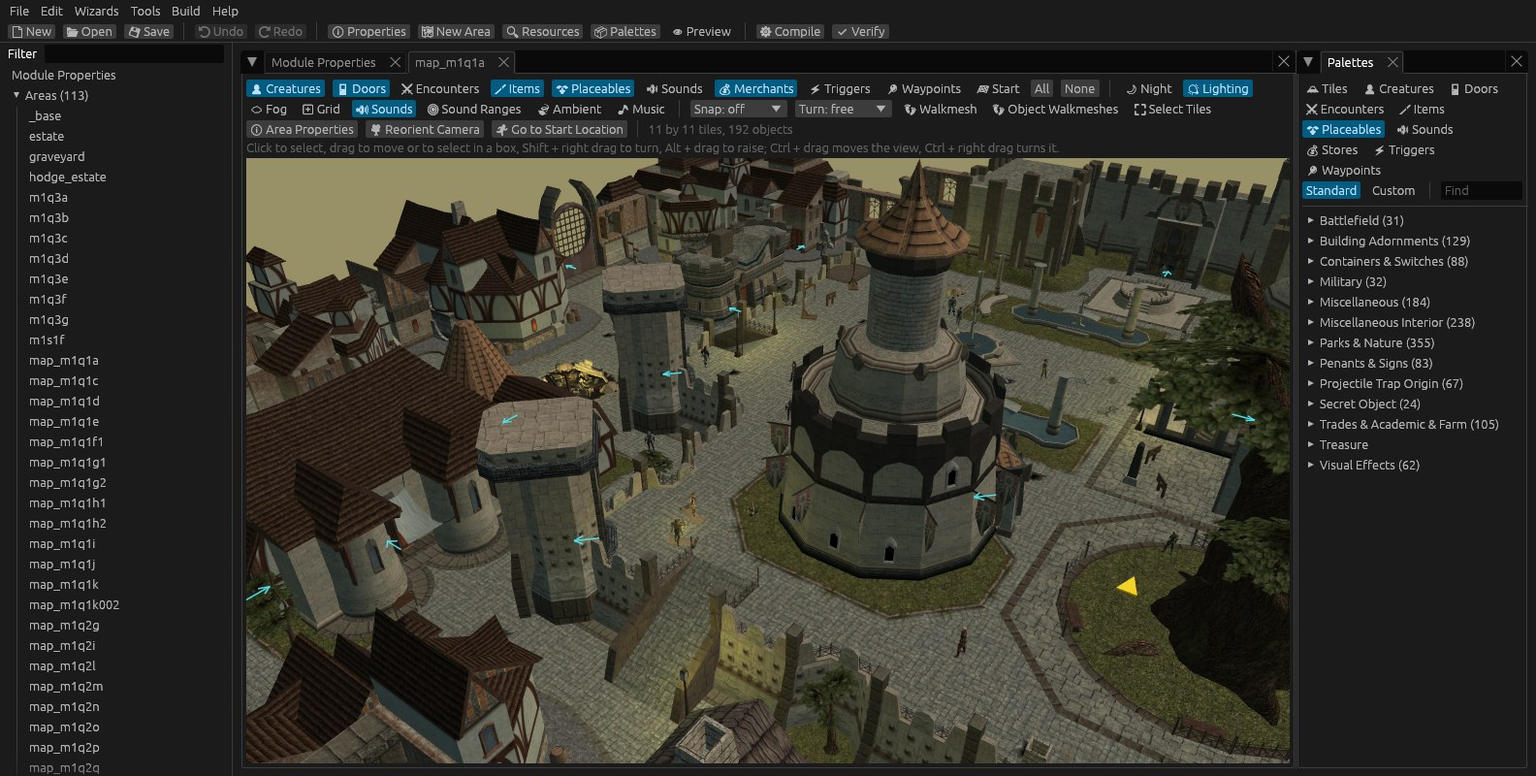
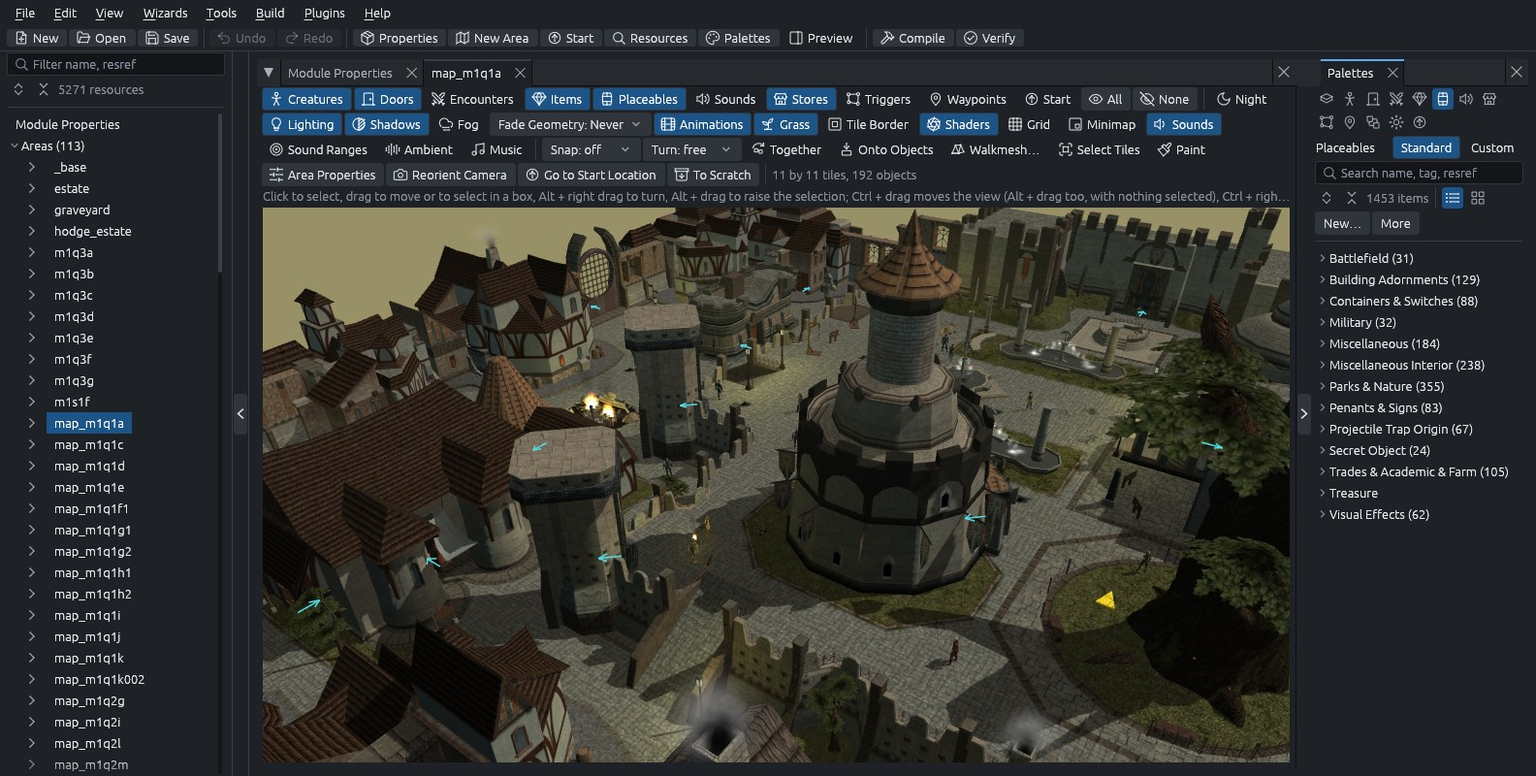
For 4.2.0: the Lucide notice reaches the packages, the README and manual pictures show the new look, the release's metainfo entry

diff --git a/packaging/third_party_licenses.py b/packaging/third_party_licenses.py
@@ -29,6 +29,9 @@ PROGRAMS = ["moonglow", "mg"]
 LICENSE_FILES = ("license", "licence", "copying", "notice", "unlicense", "copyright")
 # Folders with the licenses of what a crate bundles (fonts, ...).
 BUNDLED = ("fonts", "licenses", "licences")
+# And of Moonglow's own crates: mg-uikit's icons, drawn in the manner of
+# Lucide (icons/LICENSE-lucide.txt).
+OWN_BUNDLED = BUNDLED + ("icons",)
 # Where a -sys crate keeps the C or C++ sources it builds (glslang-sys:
 # native/glslang, with its LICENSE.txt).
 NATIVE = "native"
@@ -99,13 +102,18 @@ def main():
     out.write("Moonglow Toolset is licensed under the GNU General Public License,\n"
               "version 3 (LICENSE). It includes Beamdog's NWScript compiler (GPL-3.0)\n"
               "with neverwinter.nim's C API over it (MIT, copyright the neverwinter.nim\n"
-              "authors, https://github.com/niv/neverwinter.nim), Ubuntu Bold (Ubuntu\n"
-              "Font Licence 1.0, copyright Canonical Ltd) for its labels, Luau (MIT,\n"
-              "copyright Roblox Corporation and Lua.org, PUC-Rio) for plugins, and\n"
-              "glslang (BSD-3-Clause and others, copyright The Khronos Group and\n"
-              "others: its LICENSE.txt, with glslang-sys) for the game's shaders, and\n"
-              "Zstandard (BSD-3-Clause, copyright Meta Platforms, Inc. and affiliates:\n"
-              "its LICENSE, with zstd-sys) for NWSync's data.\n")
+              "authors, https://github.com/niv/neverwinter.nim), the Ubuntu font\n"
+              "(Ubuntu Font Licence 1.0, copyright Canonical Ltd: Ubuntu Light, with\n"
+              "epaint_default_fonts, for its text and Ubuntu Bold, with mg-uikit, for\n"
+              "its headings), Luau (MIT, copyright Roblox Corporation and Lua.org,\n"
+              "PUC-Rio) for plugins, and glslang (BSD-3-Clause and others, copyright\n"
+              "The Khronos Group and others: its LICENSE.txt, with glslang-sys) for\n"
+              "the game's shaders, and Zstandard (BSD-3-Clause, copyright Meta\n"
+              "Platforms, Inc. and affiliates: its LICENSE, with zstd-sys) for\n"
+              "NWSync's data. Its icons were drawn in the manner of Lucide\n"
+              "(https://lucide.dev, ISC License, copyright Lucide Contributors and\n"
+              "Cole Bemis): where an icon's shape matches one of Lucide's, Lucide's\n"
+              "license applies to it (mg-uikit's icons/LICENSE-lucide.txt).\n")
     dxc = []
     if args.dxc:
         d = pathlib.Path(args.dxc)
@@ -113,7 +121,7 @@ def main():
         dxc = [f for f in sorted(d.iterdir()) if f.is_file() and f.name != "VERSION.txt"]
         if not dxc:
             sys.exit(f"no license texts in {d}")
-        out.write(f"Beside it lies Microsoft's DirectX Shader Compiler {version}\n"
+        out.write(f"Beside the programs lies Microsoft's DirectX Shader Compiler {version}\n"
                   "(dxcompiler.dll, https://github.com/microsoft/DirectXShaderCompiler),\n"
                   "which Direct3D 12 compiles shaders with: the University of\n"
                   "Illinois/NCSA Open Source License (LLVM's), Microsoft's own code\n"
@@ -143,11 +151,11 @@ def main():
             except OSError:
                 continue
             texts.setdefault(text, []).append(f"{p['name']} {p['version']} ({f.name})")
-    # What Moonglow's own crates bundle (fonts, ...).
+    # What Moonglow's own crates bundle (fonts, the icons' license, ...).
     for i in sorted(seen & workspace, key=lambda i: packages[i]["name"]):
         p = packages[i]
         root = pathlib.Path(p["manifest_path"]).parent
-        for b in BUNDLED:
+        for b in OWN_BUNDLED:
             d = root / b
             if not d.is_dir():
                 continue

diff --git a/crates/mg-uikit/tests/kit/licenses.rs b/crates/mg-uikit/tests/kit/licenses.rs
@@ -1,0 +1,56 @@
+//! What the crate bundles reaches the packages' `THIRD-PARTY-LICENSES.txt`:
+//! `packaging/third_party_licenses.py`, which every package runs, is run
+//! here, and its notices of the icons (Lucide's ISC license) and the fonts
+//! (the Ubuntu Font Licence, for Ubuntu Light and Ubuntu Bold) are read
+//! back.
+
+/// The file the script writes, as notice blocks: each block's users (one a
+/// line) and its text.
+fn notices(text: &str) -> Vec<(Vec<String>, String)> {
+    let rule = format!("\n{}\n", "=".repeat(78));
+    let line = format!("{}\n\n", "-".repeat(78));
+    text.split(&rule)
+        .skip(1)
+        .filter_map(|block| {
+            let (users, text) = block.split_once(&line)?;
+            Some((users.lines().map(str::to_string).collect(), text.trim().to_string()))
+        })
+        .collect()
+}
+
+#[test]
+#[cfg(unix)]
+fn the_packages_notices_name_the_icons_and_the_fonts() {
+    let dir = mg_testkit::scratch_dir("uikit-licenses");
+    let out = dir.join("THIRD-PARTY-LICENSES.txt");
+    let root = std::path::Path::new(env!("CARGO_MANIFEST_DIR")).join("../..");
+    let run = std::process::Command::new("python3")
+        .arg("packaging/third_party_licenses.py")
+        .arg("--output")
+        .arg(&out)
+        .current_dir(&root)
+        .output()
+        .expect("python3 runs");
+    assert!(run.status.success(), "{}", String::from_utf8_lossy(&run.stderr));
+    let text = std::fs::read_to_string(&out).unwrap();
+    let head = text.split("It is built from these crates").next().unwrap().replace('\n', " ");
+    assert!(head.contains("in the manner of Lucide"), "{head}");
+    assert!(head.contains("Ubuntu Light") && head.contains("Ubuntu Bold"), "{head}");
+
+    let notices = notices(&text);
+    let lucide = include_str!("../../icons/LICENSE-lucide.txt").trim();
+    assert!(
+        notices.iter().any(|(users, t)| t == lucide
+            && users.contains(&"mg-uikit (icons/LICENSE-lucide.txt)".to_string())),
+        "no Lucide notice from mg-uikit's icons"
+    );
+    let ufl = include_str!("../../fonts/UFL.txt").trim();
+    let (users, _) =
+        notices.iter().find(|(_, t)| t == ufl).expect("the Ubuntu Font Licence's text");
+    // (Ubuntu Bold is the crate's; Ubuntu Light egui's, in its fonts.)
+    assert!(users.contains(&"mg-uikit (fonts/UFL.txt)".to_string()), "{users:?}");
+    assert!(
+        users.iter().any(|u| u.starts_with("epaint_default_fonts ") && u.ends_with(" (UFL.txt)")),
+        "{users:?}"
+    );
+}

diff --git a/crates/mg-ui/tests/screens.rs b/crates/mg-ui/tests/screens.rs
@@ -1142,7 +1142,8 @@ fn table_read_only_and_column_widths() {
 }
 
 /// A table with a description beside it: values by name, a cell that is
-/// none of its list, and a flags cell being ticked (the flags are the
+/// none of its list (in the rows above the flags' list, which opens over
+/// the last four), and a flags cell being ticked (the flags are the
 /// game's own `DAMAGE_TYPE_` constants, read from `nwscript`).
 #[test]
 #[ignore]
@@ -1158,11 +1159,11 @@ fn described_table() {
     std::fs::write(
         &file,
         "2DA V2.0\r\n\r\n  Label Level DamageType AOEShape Duration ClassRequired Cures\r\n\
-         0 Acid_Fog 6 0x0010 0 2 **** ****\r\n1 Aid 2 **** **** 3 **** ****\r\n\
-         2 Animate_Dead 3 **** **** 4 2 ****\r\n3 Barkskin 2 **** **** 4 **** ****\r\n\
+         0 Acid_Fog 6 0x0010 0 2 **** ****\r\n1 Aid 12 **** **** 9 **** ****\r\n\
+         2 Animate_Dead 3 **** **** 4 2 ****\r\n3 Barkskin 2 **** **** #N/A 99 ****\r\n\
          4 Bestow_Curse 3 **** **** 5 **** ****\r\n5 Blade_Barrier 6 0x0006 1 2 **** ****\r\n\
-         6 Bless 1 **** **** 3 **** ****\r\n7 Bless_Weapon 12 **** **** 9 **** ****\r\n\
-         8 Blindness_and_Deafness 2 **** **** #N/A 99 ****\r\n\
+         6 Bless 1 **** **** 3 **** ****\r\n7 Bless_Weapon 1 **** **** 4 **** ****\r\n\
+         8 Blindness_and_Deafness 2 **** **** 4 **** ****\r\n\
          9 Bulls_Strength 2 **** **** 4 **** ****\r\n",
     )
     .unwrap();
@@ -6737,12 +6738,17 @@ fn readme_screenshots() {
             Box::new(NoDialogs::default()),
         );
         app.set_render_state(rs.clone());
+        // (No area opens with the module: one behind the windows would
+        // show at their edges.)
+        app.settings.no_last_area = true;
         app.open_module(&chapter);
         // (The area's shot opens the palette beside it; the others are
         // windows alone.)
         app.open_palette = false;
         let mut h = Harness::builder()
-            .with_size(egui::vec2(1600.0, 960.0))
+            // (The README's pictures are cut from (8, 8) to (1592, 808),
+            // above the log, as JPEG at quality 88 or PNG of 256 colors.)
+            .with_size(egui::vec2(1600.0, 976.0))
             .renderer(egui_kittest::wgpu::WgpuTestRenderer::from_render_state(rs))
             .build_ui_state(|ui, app: &mut Moonglow| app.ui(ui), app);
         h.run_steps(3);

diff --git a/crates/mg-uikit/tests/kit/main.rs b/crates/mg-uikit/tests/kit/main.rs
@@ -1,9 +1,11 @@
 //! mg-uikit's tests that drive egui: the tokens against the mockups'
-//! tables, what `apply` does to a context, the icon widgets, and the kit
+//! tables, what `apply` does to a context, the icon widgets, the notices
+//! of the icons and fonts in the packages' licenses, and the kit
 //! sheet (every standard control under the theme; its pictures, run by
 //! hand: `cargo test -p mg-uikit --test kit -- --ignored`, write
 //! `target/test-output/uikit/`).
 
+mod licenses;
 mod sheet;
 mod theme;
 mod tokens;

diff --git a/docs/ui-redesign-proposal.md b/docs/ui-redesign-proposal.md
@@ -3,7 +3,7 @@ type: Proposal
 title: 'One look and one shell for the suite: the UI redesign'
 description: The approved redesign of Moonglow Toolset and Moonglow Viewer - the seven rules, every color token in dark and light, type and metrics, the shell and how it yields at small widths, the components, the icons, what the redesign does to each editor, the area view's handles (Fine Lines), the owner's rulings, the features it adds, what is decided but not drawn, the probable bugs found in today's app, and the milestones to build it (M1 the shared crate mg-uikit to M6 the viewer).
 tags: [proposal, ui, redesign, theme, tokens, shell, icons, gizmos, galleries, light-theme, viewer, mg-uikit]
-generated: { by: claude-code/claude-fable-5-2, at: 2026-11-11T23:05:33Z }
+generated: { by: claude-code/claude-opus-5-5, at: 2026-11-13T21:52:32Z }
 status: stable
 stale_after: 2027-03-01T00:00:00Z
 sources:
@@ -754,7 +754,7 @@ Can ship alone.
 
 **First half done 2026-11-11: the theme on today's layout.** The application applies `mg_uikit::apply` every frame in the choice of Options › General › Light theme (the setting, its stored name and its place kept; it changes on OK, as Interface size beside it does), so every window and test harness wears the tokens, type and 22 px rows and controls in both themes. What egui's style could not say is now said: `mg-uikit` gained a check box and a radio of its own (`Checkbox`, `RadioButton`, `ui.check_box`, `ui.radio_choice`, `ui.radio_button`: on in `accent-fill` with a white mark, off a bordered well, the same ids, keys and accessible names as egui's, egui's own where no theme is applied), chevrons for combo boxes and trees (`combo_icon`, `collapsing_icon`), the slider (`slider`), the 22 px text field (`text_field`), menu and list row styles (`menu_style`, `menu_bar_style`, `list_rows`: rows hovered in `accent-fill` and `hover-row`, a row as wide at rest as hovered), and a pass at the end of each frame that turns the focused field's border `accent` and gives tooltips `tooltip-bg`. The headings' text style is the body face (window titles and `ui.heading` are not bold; dialog titles are in the body size); `section_heading` stays the one bold. The dock is styled from the tokens (`mg-ui`'s `dock_look`: tab bars `bar` 28 px high, the tab in front `panel` with a 2 px line along its top, `accent` in the focused pane, 1 px `line` between tabs). Chrome colors written into `mg-ui` take tokens; the colors kept (3D view overlays, the game's look, data, tests) are listed with their reasons in `mg-ui/src/chrome_colors.rs`, whose test holds the list. The toolbars that cut their last buttons wrap. `mg nui render` and `mg nui layout` draw byte for byte as before. The sliders are egui's drawn in the theme (`mg_uikit::slider`: an `inset` rail, the filled part `accent-fill`, a thumb ringed in `text-2`; egui fills the rail and the resting thumb alike, so the thumb at rest is the rail's color). The drawn icons came in a third round (below).
 
-**Second round, 2026-11-11: rows, read-only forms, frames.** Rows are the mock's `--row-h`: every tree, list of rows and table (the module tree, the conversation, palette, journal and category trees, the Options' pages, every editor's and dialog's lists, the 2DA grid and its row numbers, the variables and other editable tables, the combo boxes' lists) lays its rows 22 px apart with no gap (a table of fields 23, below), their fills square and drawn on the row itself so that a selected row and its hovered neighbor meet with neither overlap nor seam. One mechanism does it: `mg_uikit::row_style` (no gap, no expansion and so no border, square corners, `hover-row`), given with `list_rows` (the rest of a `Ui`), `with_rows` (a scope, the gap under it kept) or `show_rows` (egui's `show_rows`, which reads the gap outside the rows). A table whose rows are fields (the variables, a creature's skills, the GFF view, a tileset's rules) leaves a 1 px line of the panel between its rows (`table_rows`, `metrics::TABLE_RULE`; the mock's `.table td` draws its border inside its 22 px, which would take a point off each field: here the line is added, 23 px a row): a text field in a row is its well, borderless, ringed in `accent` with the keys, and the wells ran together without it. Forms keep a 22 px control and the 4 px gap. A window opens as much taller as its lines grew: `tabs::FORMS_TALLER` (26 over 21) for one that is mostly a form, `tabs::ROWS_TALLER` (8%) for one that is mostly rows (its toolbars and the few form lines under its rows grew, its rows only a point each). A form shown only to be looked at is `mg_uikit::read_only`: no fill, a quiet border, `text-2`, nothing lit under the pointer, and the kit's check box, radio button and slider quiet too (`text-3`, never the accent). A field with a ground of its own takes a frame of its own (`mg_uikit::code_frame`: the script editor, no border with the keys or without). Menus keep their own rows: 22 px with 4 between (26 a row, the mock's `.menu-row` is 24 with none between), left for M3's menus. The manual's screenshots under `docs/images/` are not replaced now: they change again with the shell milestone (M3) and are replaced once then.
+**Second round, 2026-11-11: rows, read-only forms, frames.** Rows are the mock's `--row-h`: every tree, list of rows and table (the module tree, the conversation, palette, journal and category trees, the Options' pages, every editor's and dialog's lists, the 2DA grid and its row numbers, the variables and other editable tables, the combo boxes' lists) lays its rows 22 px apart with no gap (a table of fields 23, below), their fills square and drawn on the row itself so that a selected row and its hovered neighbor meet with neither overlap nor seam. One mechanism does it: `mg_uikit::row_style` (no gap, no expansion and so no border, square corners, `hover-row`), given with `list_rows` (the rest of a `Ui`), `with_rows` (a scope, the gap under it kept) or `show_rows` (egui's `show_rows`, which reads the gap outside the rows). A table whose rows are fields (the variables, a creature's skills, the GFF view, a tileset's rules) leaves a 1 px line of the panel between its rows (`table_rows`, `metrics::TABLE_RULE`; the mock's `.table td` draws its border inside its 22 px, which would take a point off each field: here the line is added, 23 px a row): a text field in a row is its well, borderless, ringed in `accent` with the keys, and the wells ran together without it. Forms keep a 22 px control and the 4 px gap. A window opens as much taller as its lines grew: `tabs::FORMS_TALLER` (26 over 21) for one that is mostly a form, `tabs::ROWS_TALLER` (8%) for one that is mostly rows (its toolbars and the few form lines under its rows grew, its rows only a point each). A form shown only to be looked at is `mg_uikit::read_only`: no fill, a quiet border, `text-2`, nothing lit under the pointer, and the kit's check box, radio button and slider quiet too (`text-3`, never the accent). A field with a ground of its own takes a frame of its own (`mg_uikit::code_frame`: the script editor, no border with the keys or without). Menus keep their own rows: 22 px with 4 between (26 a row, the mock's `.menu-row` is 24 with none between), left for M3's menus. The manual's and the README's screenshots under `docs/images/` were left at first, as they change again with the shell milestone (M3); for release 4.2.0, which ships M2 without the shell, they were made again in the new look (2026-11-13, `screens.rs`'s `readme_screenshots` and `described_table`), and M3 replaces them once more.
 
 **Third round, 2026-11-11: the drawn icons.** No button, toggle, menu row or mark of the toolset carries an emoji or a symbol character any more: each draws one of the set's icons (`mg_uikit::Icon`), 16 px in 1.5 px strokes on the pixel grid, and is named by its words alone (`get_by_label("Save")`, a screen reader's "Save"), with its icon or without. The widget is `mg_uikit::IconButton` (the icon and the words, the icon alone as a 22 px `.btn-icon`, or the words alone; small, frameless, selected, a toggle's look, filled; disabled it fades whole), with `menu` (a menu's button, or in a menu a submenu row with a drawn chevron, egui's `⏵` glyph gone from every submenu), `submenu_button`, `menu_button`, `icon_label` (a warning's or a note's mark before its words), `name_group` (a row named as a group, so that its buttons are found within it: the main toolbar's "Toolbar", the area view's "Area toolbar", the palette's "Palette types") and `record_icons`/`icons_drawn` (which icon a frame drew where, for tests). A word button's icon sits 2 px into its padding with 6 px before the words (the mock's `.btn .ic`). `mg-ui`'s `icons.rs` holds the toolset's icons by meaning (`object(kind)` the kind icons, the same in the area view's filters and the palette's types; `editor::*` the editors' toolbars'), and `Tools` labels a toolbar as Options › General › Toolbar buttons says: the icon and the words, or with Icons only the icon alone, its words in its tip and its name; the editors' toolbars keep their words alone beside it. Converted: the main toolbar, the area view's filters, switches, tools and its three dropdowns' leading icons, the script, conversation, model and NUI toolbars, the palette's types, List and Gallery, Expand All and Collapse All, the tiles palette's brushes, Select Tiles and Exact Tile, the module tree's area arrows and claim marks (check, lock, pin), the journal's and the NUI layers' arrows, a favorite's bookmark (before its name in the list, at a picture's top right in the gallery), every search field's glass (drawn in the field) and clear button, the number fields' arrows, the remove, move and add buttons of forms, the equipment's worn-off warning, the window bar's Maximize and Restore (now drawn where a window's bar lies over the main toolbar too), the View menu's and plugin panels' ticks, the script editor's bookmarks in its line numbers and its live error's mark, the renderer and update notices. What stays text (signs in data and messages: `≠` for values that differ, `×` in sizes and counts, `↺90°` a turn's value) is listed with its reasons in `mg-ui/src/interface_glyphs.rs`, whose test reads every string and character literal of the application and holds the list exactly, and another that the app's fonts draw each: the proportional fonts have no `→` (it showed as a square), so the messages they draw write `->`: the 2DA editor's merge lines and their tip, Refine Tile's brush, the import window's missing references, the attach-hak window's placements (a tip) and the NUI Creator's bind cycles; the messages only the log shows, in its monospace font, which has the arrow, keep `→` (a verify finding's reference, an export's missing references, a terrain renamed in its tileset's palette), each listed with the font that draws it. The scan reads the sources of every crate whose strings the application can show (all of `crates/` but the two that are tests alone, and `apps/moonglow`), skipping test modules alone and reading byte strings too. The hak editor's header no longer runs past its window (the owner's finding on the mock and in the app): its path and its hint line are cut short with an ellipsis instead of widening the editor, and its buttons show their icons alone when their words do not fit the editor's width (`Tools::fitted`, section 6.1's first step), wrapping where even those do not; a test holds every button inside the window at 640 and 480 px. The fonts are unchanged: the emoji and symbol fonts are egui's `default_fonts`, which text the user writes or reads (a conversation line, a talk-table string, a script comment) and egui's own widgets (the color picker's copy button) still need. The plugin API names no icons and is left as it is: a plugin's titles are text, emoji included. Known differences: the toolbars' buttons keep 4 px between icon and words, not the mock's 6, and even so the area view's toolbar takes a row more at some widths (its forty buttons a point or two wider each than with their glyphs), until M3 moves its switches into popovers.
 

diff --git a/docs/log.md b/docs/log.md
@@ -1,5 +1,8 @@
 # Update log
 
+## 2026-11-13
+* **Update**: Release 4.2.0 prepared (the version, its tag and its notes on GitHub are the release's own step). The README's four pictures and the manual's described 2DA table (`images/2da-table-described.png`, which the app's manual carries) are made again in the new look of [the UI redesign](ui-redesign-proposal.md)'s M2, dark, from `crates/mg-ui/tests/screens.rs` as before: `readme_screenshots` on the original campaign's first chapter, its harness 976 points high (960 before; the log now begins 16 points higher) and the module opening on no area of its own (an area behind the editors' windows showed at their edges), each picture cut from (8, 8) to (1592, 808), as JPEG at quality 88 or PNG of 256 colors; `described_table` with its wrong cells in rows 1 and 3, above the flags' list, which now opens over the last four rows. The pictures that only the proposals show (the 2DA editor's six, the framebuffer's three) are kept. `THIRD-PARTY-LICENSES.txt`, which every package writes with `packaging/third_party_licenses.py`, carries the Lucide notice of `mg-uikit`'s icons (`icons/LICENSE-lucide.txt`, read as the crate's fonts are) and names it in its opening, which now also names Ubuntu Light (with egui's fonts, for the text) beside Ubuntu Bold (for the headings); the Ubuntu Font Licence was already there for both. `crates/mg-uikit/tests/kit/licenses.rs` runs the script and reads both notices back. [Packaging](../packaging/README.md) says where CI puts DXC since Cargo 1.100. [Areas](manual/04-areas.md) names Tile Properties' height buttons by their words (Lower Height and Raise Height), drawn as icons since M2. The AppStream metadata has the 4.2.0 entry.
+
 ## 2026-11-12
 * **Feature**: Setup Area Transition now leads to area transition triggers as Aurora's does ([the findings](findings.md), "Setup Area Transition with triggers"). It lists them and draws them on the map, offers Aurora's Connection Type (Both Ways, Current To Target, Target To Current), and makes the `WP_<tag>` waypoint at the middle of the trigger's box, with both ends and the waypoints written in one undoable step. What it writes matches Aurora's captures field by field (`aurora_transitions.rs`, eleven steps), and the deferred entry "Setup Area Transition's Connection Type" is closed. It differs from Aurora on purpose in four ways, listed in the [manual](manual/12-differences.md): it reuses a waypoint already inside the trigger's box, writes Target To Current's other end, writes everything on the window's OK, and shows lines instead of questions.
 * **Fix**: Area transition triggers are now saved as Aurora saves them and kept where the game shows them ([the findings](findings.md), "When the client shows an area transition"): the game client shows a transition under the pointer, and takes a click on it, only when its corners run counterclockwise and lie on the ground. Outlines that are drawn, made as Alt rectangles or redrawn are saved counterclockwise from the westernmost corner, and Redraw Polygon puts the trigger at height 0. A trigger dragged, moved by the arrows or Adjust Location, or pasted has its corners put back on the ground, and choosing Trigger Type Area Transition also sets the transition cursor. Verify's new `transition-hidden` (a warning, with a fix that does what Redraw Polygon does) finds transitions saved clockwise, which the game never shows, and transitions left at another level, more than 1 m off the walkable ground, which it may not show: nearer than that the game's answer depends on the place, and the game's own transitions 0.23 to 0.31 m off are shown (`transition_outlines.rs`), so it finds nothing in the game's own modules.

diff --git a/packaging/README.md b/packaging/README.md
@@ -45,7 +45,7 @@ which sets it as it starts (`mg_core::release`). A release:
 | `windows/` | The Inno Setup script, `build-installer.ps1`, and `dxc.ps1` with `dxc/` (the pinned DirectX Shader Compiler: [DXC](#dxc-direct3d-12s-shader-compiler)). The executable's icon and version information come from `apps/moonglow/build.rs`. |
 | `macos/` | `Info.plist` and `build-app.sh`. |
 | `sign-release.sh` | Signs a release's packages' checksums with the owner's minisign key and uploads them ([Signing a release](#signing-a-release)); `minisign.pub` beside it, once made, is the public key built into the app. |
-| `third_party_licenses.py` | Writes `THIRD-PARTY-LICENSES.txt`: every crate the programs are built from, its license, and the license texts (on Windows, DXC's too: `--dxc`). |
+| `third_party_licenses.py` | Writes `THIRD-PARTY-LICENSES.txt`: every crate the programs are built from, its license, and the license texts, with those of what Moonglow's own crates bundle (`fonts/`, and `icons/`: mg-uikit's Ubuntu Bold and the Lucide notice of its icons) and, on Windows, DXC's (`--dxc`). `crates/mg-uikit/tests/kit/licenses.rs` runs it. |
 
 The application ID is `io.github.moonglow_toolset.Moonglow`
 (`io.github.moonglow-toolset.Moonglow` on macOS, where bundle IDs take no
@@ -184,8 +184,10 @@ the release pinned there (`v1.9.2609`, `dxc_2026_09_29.zip`, SHA-256
 downloaded from GitHub into `target\dxc\<tag>`, its hash checked, and
 `bin\x64\dxcompiler.dll` copied out. `dxil.dll` is neither needed (since
 1.8.2505 `dxcompiler.dll` validates and signs what it compiles on its own) nor
-shipped. CI's Windows job puts the same DLL beside the test binaries
-(`target\debug\deps`) and sets `MOONGLOW_REQUIRE_DXC=1`, so that
+shipped. CI's Windows job puts the same DLL beside every test binary
+(in the folders Cargo names for them: since Cargo 1.100 each has its
+own, `target\debug\build\<crate>\<hash>\out`, no longer all in
+`target\debug\deps`) and sets `MOONGLOW_REQUIRE_DXC=1`, so that
 mg-render's compiler check
 (`a_texture_read_in_a_loop_of_a_varying_count_compiles_and_draws`) fails
 unless Direct3D 12 compiled with it and drew such a loop right.

diff --git a/.agdb/knowledge/remaking-the-readme-and-manual-pictures-docs-images.md b/.agdb/knowledge/remaking-the-readme-and-manual-pictures-docs-images.md
@@ -1,0 +1,17 @@
+---
+type: How-to
+title: Remaking the README and manual pictures (docs/images)
+description: "How docs/images' README and manual pictures are made from screens.rs, and how they are cut and encoded, so a release can make them again the same way."
+tags: []
+status: stable
+generated: { by: agdb/0.2.0, at: 2026-11-13T21:52:57Z }
+touches: ["crates/mg-ui/tests/screens.rs:readme_screenshots", "crates/mg-ui/tests/screens.rs:described_table", docs/images/]
+asks:
+  - how were the README screenshots made
+  - how do I remake the pictures in docs/images for a release
+  - what crop and JPEG quality do the README pictures use
+  - which docs/images pictures does the manual embed
+fingerprint: v2-a00898e3f6b21fd2
+created: 2026-11-13
+---
+The README's four pictures (area.jpg, conversation.png, creature.jpg, script.png) come from `screens.rs`'s `readme_screenshots`, run with the game installed: `MOONGLOW_TEST_OUTPUT=$PWD/target/x cargo test -p mg-ui --test screens -- --ignored --exact readme_screenshots --test-threads=1`, writing `readme/*.png` at 1600 by 976 (976 since 4.2.0: with M2's look the log pane began 16 points higher, and the old 960 left its splitter and chevron in the cut). Each is cut from (8, 8) to (1592, 808) with Pillow, 1584 by 800, just above the log; area and creature saved as JPEG `quality=88, subsampling=2` (4:2:0, the originals' tables), conversation and script as `quantize(colors=256)` PNG. The harness sets `settings.no_last_area` before `open_module`: since the module opens on its last or first area, that area's tab showed at the floating editors' edges (a black 3D view). The manual's only picture, `2da-table-described.png` (embedded in the app by `mg-ui/src/manual.rs`'s PICTURES), is `described_table`'s PNG as written (1280 by 800, RGBA): its wrong cells sit in rows 1 and 3 because the flags' list opens upward over rows 6 to 9 with 22-point rows. The 2DA editor's six and the framebuffer's three pictures are only in proposals and are not remade with releases. Dark theme unless `MG_LIGHT` is set.

diff --git a/docs/manual/04-areas.md b/docs/manual/04-areas.md
@@ -3,7 +3,7 @@ type: Manual Page
 title: Areas
 description: Areas - the viewer's toolbar, minimaps and camera, selecting, arranging and placing objects, Setup Store, duplicate tags, claimed and protected areas, painting placeables, painting terrain, tiles, Area Properties, area sounds and making tilesets.
 tags: [manual, areas, terrain, tiles]
-generated: { by: claude-code/claude-opus-5-5, at: 2026-11-12T14:07:24Z }
+generated: { by: claude-code/claude-opus-5-5, at: 2026-11-13T22:02:34Z }
 ---
 
 # Areas
@@ -1349,7 +1349,7 @@ any other change to its tiles (a brush, a paste, a plugin).
 
 **Height** (Moonglow's own) is the tiles' `Tile_Height`, in the
 tileset's height steps (the meters are written beside it): **-** and
-**+** lower and raise them a step, and any number of steps can be typed
+**+** (Lower Height and Raise Height) lower and raise them a step, and any number of steps can be typed
 or dragged, below 0 too. It is set on the tiles alone: no neighbor,
 corner or terrain around them changes, so a tile raised alone stands
 above the tiles around with gaps between (what the builder asked for,
